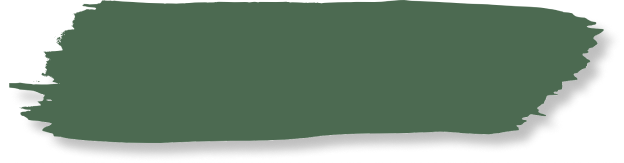
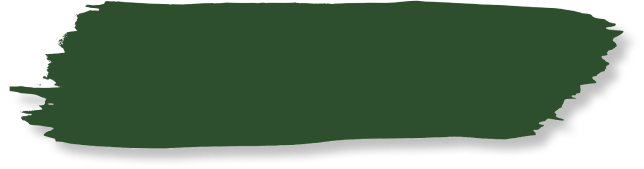
Blurred patreon bg, rounded carousel images, adjusted colour scheme.

diff --git a/mindmoss-site/src/components/ExploreOurGames.jsx b/mindmoss-site/src/components/ExploreOurGames.jsx
@@ -17,7 +17,7 @@ export default function ExploreOurGames() {
       { threshold: 0.1 }
     );
 
-    const element = document.getElementById(`exploreOurGamesPaintDrip`);
+    const element = document.getElementById(`carousel`);
     if (element) observer.observe(element);
 
     return () => {
@@ -27,15 +27,9 @@ export default function ExploreOurGames() {
 
   return (
     <section className="relative w-full h-full overflow-hidden">
-      <div className="absolute w-full h-full bg-grass bg-paper opacity-[100%]" />
+      <div className="absolute w-full h-full bg-grass opacity-[100%]" />
 
-      {/* Background Image */}
-      <img
-        id="exploreOurGamesPaintDrip"
-        src="/PaintDrip.png"
-        alt="Paint Drip"
-        className="absolute top-0 left-0 w-full 2xs:h-[30%] md:h-[50%] lg:h-[40%] xl:h-[50%]"
-      />
+      <div className="absolute w-full h-[300px] xl:h-[600px] bg-beige mask-paint bg-no-repeat bg-cover bg-bottom" />
 
       {/* Content Wrapper */}
       <div className="relative z-10 flex flex-col items-center">
@@ -45,7 +39,10 @@ export default function ExploreOurGames() {
         </div>
 
         {/* Carousel */}
-        <div className="px-10 sm:px-20 2xs:py-24 md:py-32 lg:py-48 xl:py-64 w-full">
+        <div
+          id="carousel"
+          className="px-10 sm:px-20 2xs:py-24 md:py-32 lg:py-48 xl:py-64 w-full"
+        >
           <Carousel />
         </div>
       </div>

diff --git a/mindmoss-site/src/components/Patreon.jsx b/mindmoss-site/src/components/Patreon.jsx
@@ -26,16 +26,15 @@ export default function Patreon() {
   return (
     <section className="relative pb-20 w-full h-full min-h-screen">
       {/* Background layer */}
-      <div className="absolute w-full h-full bg-beige bg-paper opacity-100 z-0" />
+      <div className="absolute w-full h-full bg-beige opacity-100" />
 
       {/* Decorative tile image */}
       <img
         src="/PatreonImages/Tiles.png"
-        className="absolute w-full h-full object-cover z-10"
+        className="absolute w-full h-[99%] object-cover brightness-50 blur-[3px] bottom-0"
       />
 
-      {/* Drip image */}
-      <div className="relative w-full h-[600px] bg-paper bg-grass z-20 mask-paint" />
+      <div className="relative w-full h-[300px] xl:h-[600px] bg-grass z-20 mask-paint bg-no-repeat bg-cover bg-bottom" />
 
       <div className="absolute inset-0 w-full h-full flex justify-center">
         <div className="absolute font-rubikWet text-center text-beige 2xs:text-[40px] md:text-[70px] xl:text-[120px] z-30">

diff --git a/mindmoss-site/src/components/Footer.jsx b/mindmoss-site/src/components/Footer.jsx
@@ -7,11 +7,9 @@ import { FaYoutube } from "react-icons/fa";
 export default function Footer() {
   return (
     <section className="relative w-full h-full flex flex-col">
-      <div className="absolute w-full h-full bg-grass bg-paper opacity-100 z-0" />
+      <div className="absolute w-full h-full bg-grass opacity-100 z-0" />
 
-      {/* Drip image */}
-      <img src="/PaintDrip.png" className="relative w-full h-full" />
-      {/* <div className="relative w-full 2xs:h-[400px] lg:h-[600px] bg-paper bg-beige z-30 mask-paint" /> */}
+      <div className="relative w-full h-[300px] xl:h-[600px] bg-beige z-20 mask-paint bg-no-repeat bg-cover bg-bottom" />
 
       <div className="w-full flex justify-center text-white z-10">
         <div className="xl:w-[80%] flex lg:flex-row 2xs:flex-col justify-between items-center space-y-10 mb-10">

diff --git a/mindmoss-site/src/components/Menu.jsx b/mindmoss-site/src/components/Menu.jsx
@@ -16,7 +16,7 @@ export default function Menu({ setIsOpen }) {
       animate={{ x: "0%" }} // stops flush with right edge
       exit={{ x: "100%" }}
       transition={{ duration: 0.4, ease: "easeInOut" }}
-      className="fixed z-40 top-0 right-0 h-full 2xs:w-[50%] lg:w-[40%] xl:w-[30%] bg-paper bg-grass flex items-center justify-center font-roboto text-beige 2xs:text-[32px] md:text-[48px] lg:text-[64px] shadow-lg"
+      className="fixed z-40 top-0 right-0 h-full 2xs:w-[50%] lg:w-[40%] xl:w-[30%] bg-grass flex items-center justify-center font-roboto text-beige 2xs:text-[32px] md:text-[48px] lg:text-[64px] shadow-lg"
     >
       <div className="flex flex-col space-y-10">
         {links.map(({ to, label }) => (

diff --git a/mindmoss-site/src/components/Hero/Hero.jsx b/mindmoss-site/src/components/Hero/Hero.jsx
@@ -7,7 +7,7 @@ import AnimateLetters from "../AnimateLetters";
 export default function Hero() {
   return (
     <section className="h-screen flex justify-center bg-beige items-center w-full gap-20 2xs:px-[5%] md:px-[15%]">
-      <div className="absolute w-full h-full bg-beige bg-paper opacity-[66%]" />
+      <div className="absolute w-full h-full bg-beige opacity-[66%]" />
 
       {/* Left Container */}
       <div className="flex flex-col 2xs:items-center lg:items-start 2xs:space-y-[360px] md:space-y-[400px] lg:space-y-16 z-20">

diff --git a/mindmoss-site/src/components/Carousel.jsx b/mindmoss-site/src/components/Carousel.jsx
@@ -47,7 +47,7 @@ const Carousel = () => {
             to={`/library/game/${game.gameId}`}
             className="px-2"
           >
-            <div className="relative aspect-[3/2] w-full overflow-hidden rounded-lg">
+            <div className="relative aspect-[3/2] w-full overflow-hidden rounded-[64px]">
               <img
                 src={game.image}
                 alt={game.title}

diff --git a/mindmoss-site/tailwind.config.js b/mindmoss-site/tailwind.config.js
@@ -6,8 +6,8 @@ export default {
       colors: {
         dark_gray: "#1C1C1C",
         light_gray: "#A6A6A6",
-        beige: "#F1E9DB",
-        grass: "#4C6A51",
+        beige: "#AD7E4E", // #F1E9DB
+        grass: "#2e4f2e", // #4C6A51
         highlight: "#9CB79C",
       },
       fontFamily: {
